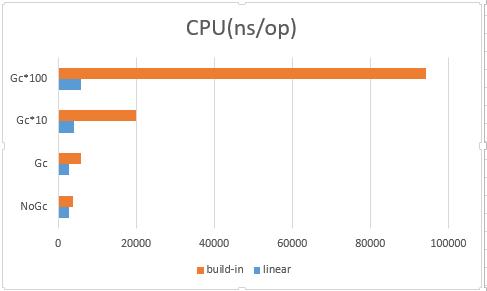
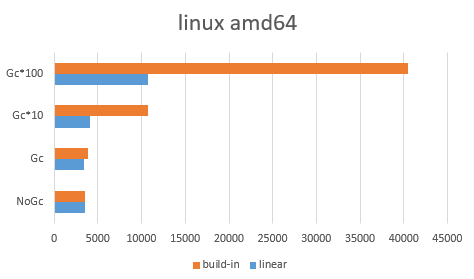
update bench result.

diff --git a/README.md b/README.md
@@ -73,22 +73,23 @@ func main() {
 Results from benchmark tests:
 ![bench](./bench.png)
 ``` 
-cpu: Intel(R) Core(TM) i7-10510U CPU @ 1.80GHz
+goos: linux
+goarch: amd64
+pkg: oops/common/linear_ac
 Benchmark_linearAllocNoGC
-Benchmark_linearAllocNoGC-8       429055              2806 ns/op               8 B/op          0 allocs/op
+Benchmark_linearAllocNoGC-6    	  294457	      3476 ns/op	     447 B/op	       0 allocs/op
 Benchmark_buildInAllocNoGc
-Benchmark_buildInAllocNoGc-8      333940              3904 ns/op            2244 B/op        148 allocs/op
+Benchmark_buildInAllocNoGc-6   	  335590	      3484 ns/op	    2488 B/op	     148 allocs/op
 Benchmark_linearAllocGc
-Benchmark_linearAllocGc-8         422084              2844 ns/op               8 B/op          0 allocs/op
+Benchmark_linearAllocGc-6      	  352168	      3442 ns/op	     405 B/op	       0 allocs/op
 Benchmark_buildInAllocGc
-Benchmark_buildInAllocGc-8        352863              5918 ns/op            2244 B/op        148 allocs/op
+Benchmark_buildInAllocGc-6     	  285265	      3856 ns/op	    2488 B/op	     148 allocs/op
 Benchmark_linearAllocGc2
-Benchmark_linearAllocGc2-8        277922              4003 ns/op               8 B/op          0 allocs/op
+Benchmark_linearAllocGc2-6     	  289704	      4151 ns/op	       8 B/op	       0 allocs/op
 Benchmark_buildInAllocGc2
-Benchmark_buildInAllocGc2-8       265830             20012 ns/op            2244 B/op        148 allocs/op
+Benchmark_buildInAllocGc2-6    	  203284	     10718 ns/op	    2488 B/op	     148 allocs/op
 Benchmark_linearAllocGc3
-Benchmark_linearAllocGc3-8        220708              5783 ns/op               9 B/op          0 allocs/op
+Benchmark_linearAllocGc3-6     	  103095	     10722 ns/op	       8 B/op	       0 allocs/op
 Benchmark_buildInAllocGc3
-Benchmark_buildInAllocGc3-8       145726             94274 ns/op            2244 B/op        148 allocs/op
-
+Benchmark_buildInAllocGc3-6    	   82090	     40442 ns/op	    2488 B/op	     148 allocs/op
 ```
